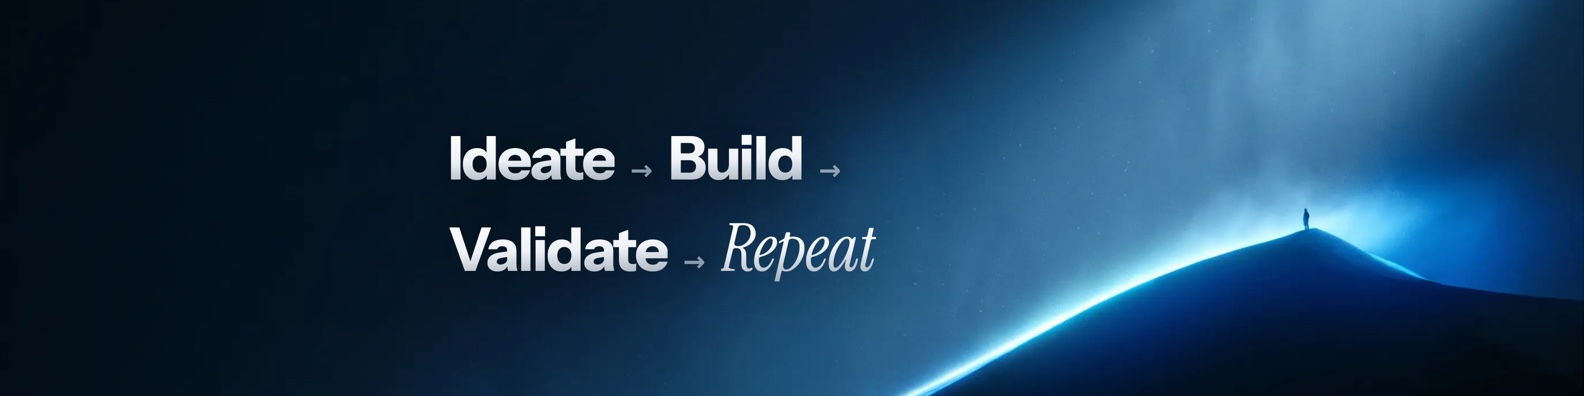
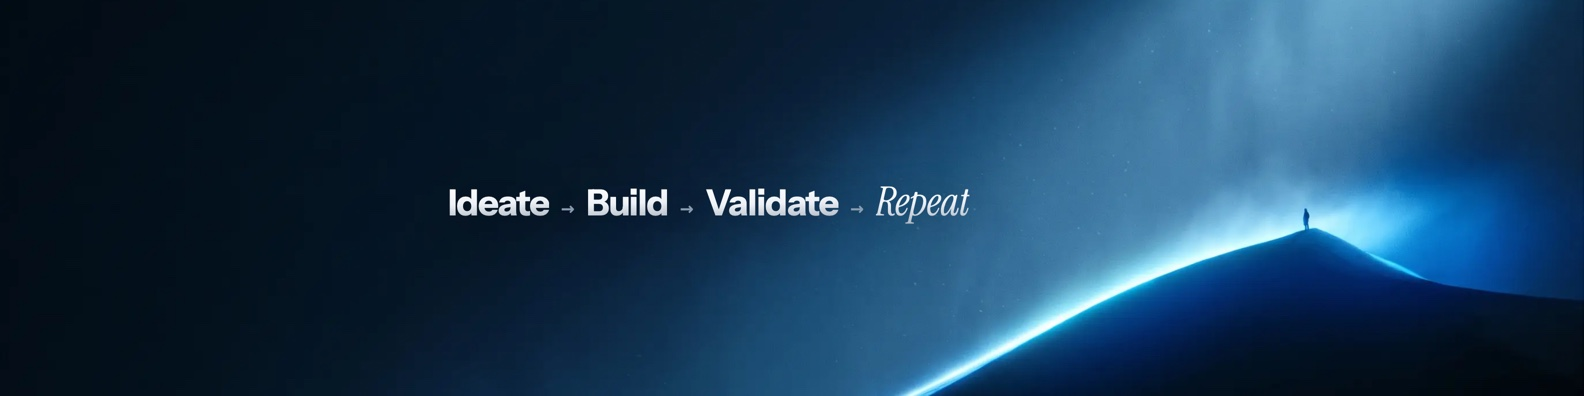
polish(brand): linkedin cover v3.2 — one line, barely raised
The loop settles into a single quiet line — Ideate → Build → Validate in
sans, Repeat in serif — floating in the dark sky left of the beam.

Changed region(s): [[0.2784, 0.3333, 0.6187, 0.697]]

diff --git a/linkedin-cover.html b/linkedin-cover.html
@@ -29,24 +29,22 @@
     .plate img { position: absolute; width: 1584px; left: 0; top: -201px; }
 
     /* ── the loop, poster-sized, over the dark sky ── */
-    .loop { position: absolute; left: 448px; top: 128px; z-index: 4; white-space: nowrap; }
-    .loop .row { display: block; line-height: 1; }
-    .loop .row + .row { margin-top: 22px; }
+    .loop { position: absolute; left: 448px; top: 176px; z-index: 4; white-space: nowrap; }
     .w {
       display: inline-block;
-      font-weight: 700; font-size: 60px; letter-spacing: -0.03em;
+      font-weight: 700; font-size: 36px; letter-spacing: -0.025em;
       background: linear-gradient(178deg, #FFFFFF 8%, #EDF1F6 52%, #9AA5B2 100%);
       -webkit-background-clip: text; background-clip: text; color: transparent;
       filter: drop-shadow(0 4px 30px rgba(2,4,8,.65));
     }
     .w.serif {
       font-family: 'Instrument Serif', Georgia, serif; font-style: italic; font-weight: 400;
-      font-size: 66px; letter-spacing: -0.005em;
+      font-size: 40px; letter-spacing: -0.005em;
     }
     .arrow {
-      display: inline-block; margin: 0 16px; transform: translateY(-7px);
+      display: inline-block; margin: 0 12px; transform: translateY(-4px);
       font-family: 'JetBrains Mono', monospace; font-weight: 400;
-      font-size: 36px; color: #8CA0B4; vertical-align: middle;
+      font-size: 22px; color: #8CA0B4; vertical-align: middle;
       text-shadow: 0 2px 18px rgba(2,4,8,.7);
     }
 
@@ -60,8 +58,7 @@
   <div class="plate"><img src="images/silhouette-poster.webp" alt="" /></div>
 
   <div class="loop">
-    <span class="row"><span class="w">Ideate</span><span class="arrow">→</span><span class="w">Build</span><span class="arrow">→</span></span>
-    <span class="row"><span class="w">Validate</span><span class="arrow">→</span><span class="w serif">Repeat</span></span>
+    <span class="w">Ideate</span><span class="arrow">→</span><span class="w">Build</span><span class="arrow">→</span><span class="w">Validate</span><span class="arrow">→</span><span class="w serif">Repeat</span>
   </div>
 
   <div class="grain"></div>
